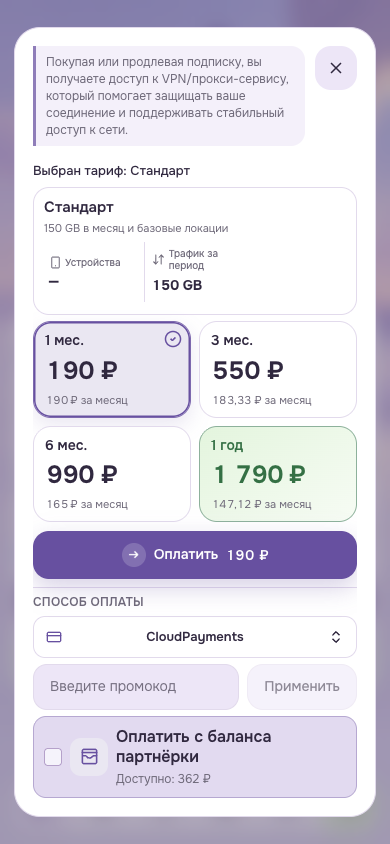
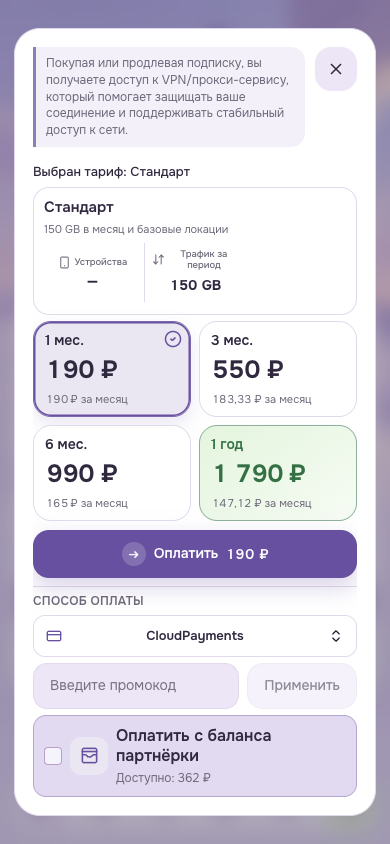
Keep tariff navigation in flow

diff --git a/style.css b/style.css
@@ -1312,3 +1312,68 @@ html.theme-key-avio-landing :is(.install-platform-item, .language-select-item, .
     padding: 12px;
   }
 }
+
+/* 1.5.7: keep tariff navigation in the document flow. */
+.theme-key-avio-landing .webapp-payment-dialog:has(.back-inline) > .dialog-head-custom {
+  min-height: 32px;
+}
+.theme-key-avio-landing .payment-dialog-body:has(> .back-inline) {
+  display: grid;
+  grid-template-columns: 38px minmax(0, 1fr);
+  align-items: center;
+  column-gap: 8px;
+}
+.theme-key-avio-landing .payment-dialog-body:has(> .back-inline) > .back-inline {
+  position: static !important;
+  z-index: auto;
+  grid-column: 1;
+  grid-row: 1;
+  width: 38px;
+  max-width: 38px;
+  min-height: 34px;
+  margin: 0;
+  padding: 0;
+  justify-content: center;
+  gap: 0;
+  overflow: hidden;
+  font-size: 0;
+  box-shadow: none;
+}
+.theme-key-avio-landing .payment-dialog-body:has(> .back-inline) > .back-inline > svg {
+  width: 18px;
+  height: 18px;
+}
+.theme-key-avio-landing .payment-dialog-body:has(> .back-inline) > .tariff-step-caption {
+  grid-column: 2;
+  grid-row: 1;
+  margin: 0;
+}
+.theme-key-avio-landing .payment-dialog-body:has(> .back-inline) > :not(.back-inline):not(.tariff-step-caption) {
+  grid-column: 1 / -1;
+}
+
+.theme-key-avio-landing .checkout-tariff-fact {
+  align-items: center !important;
+  justify-items: center;
+  text-align: center;
+}
+.theme-key-avio-landing .checkout-tariff-fact-label {
+  width: 100%;
+  justify-content: center;
+  text-align: center;
+}
+.theme-key-avio-landing .checkout-tariff-fact .checkout-addon-label {
+  display: block;
+  overflow: visible;
+  width: auto;
+  font-size: 9.5px;
+  line-height: 1.15;
+  text-align: center;
+  text-overflow: clip;
+  white-space: normal;
+  -webkit-line-clamp: initial;
+}
+.theme-key-avio-landing .checkout-tariff-fact > .checkout-addon-value {
+  width: 100%;
+  text-align: center;
+}

diff --git a/README.md b/README.md
@@ -1,9 +1,8 @@
 # Avio — Твой интернет
 
-Версия 1.5.6: новая иконка открытого замка для неактивной подписки, зелёная
-карточка статуса серверов и отдельный золотой стиль тарифа «Премиум».
-Возврат к списку закреплён слева в шапке диалога, сводка тарифа перестроена в
-три компактных столбца, а на высокой мобильной главной убран лишний скролл.
+Версия 1.5.7: возврат к тарифам больше не накладывается на окно — компактная
+стрелка находится в одной строке с названием выбранного тарифа. Параметры
+тарифа отцентрированы, а длинные подписи отображаются без обрезания.
 
 Установить тему можно по адресу этого публичного репозитория или ZIP-архивом
 из раздела Releases.
